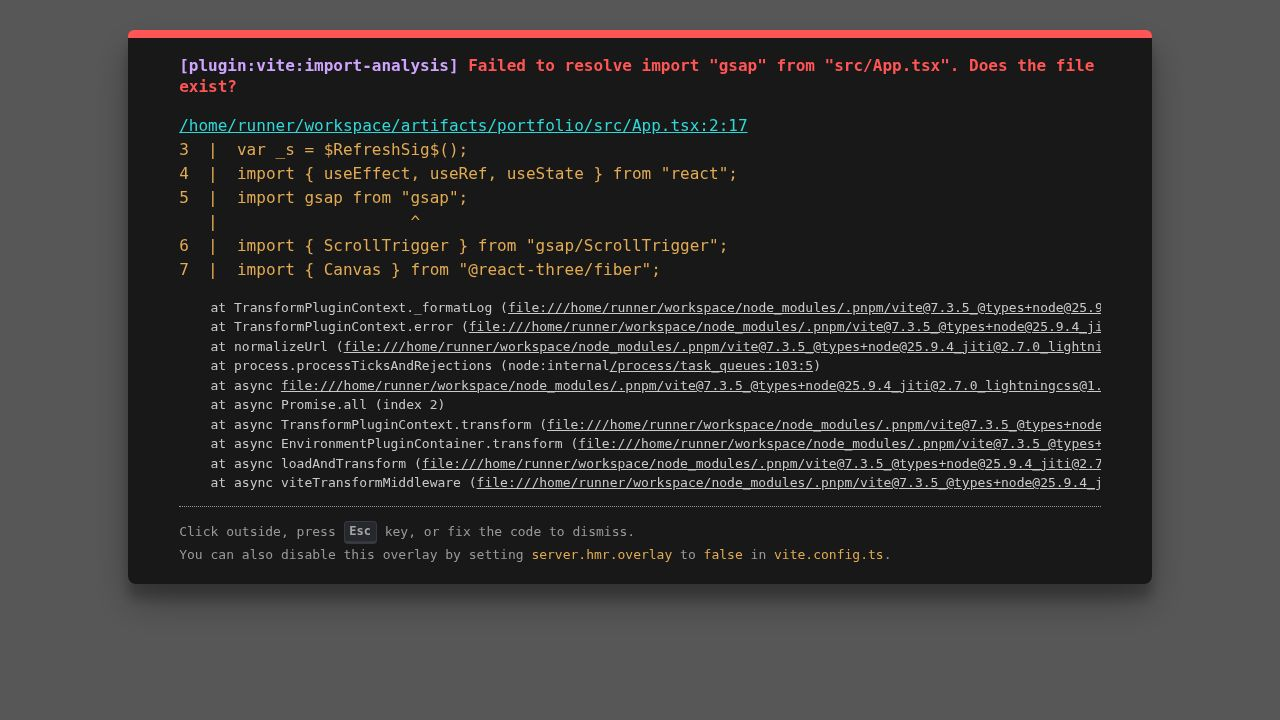
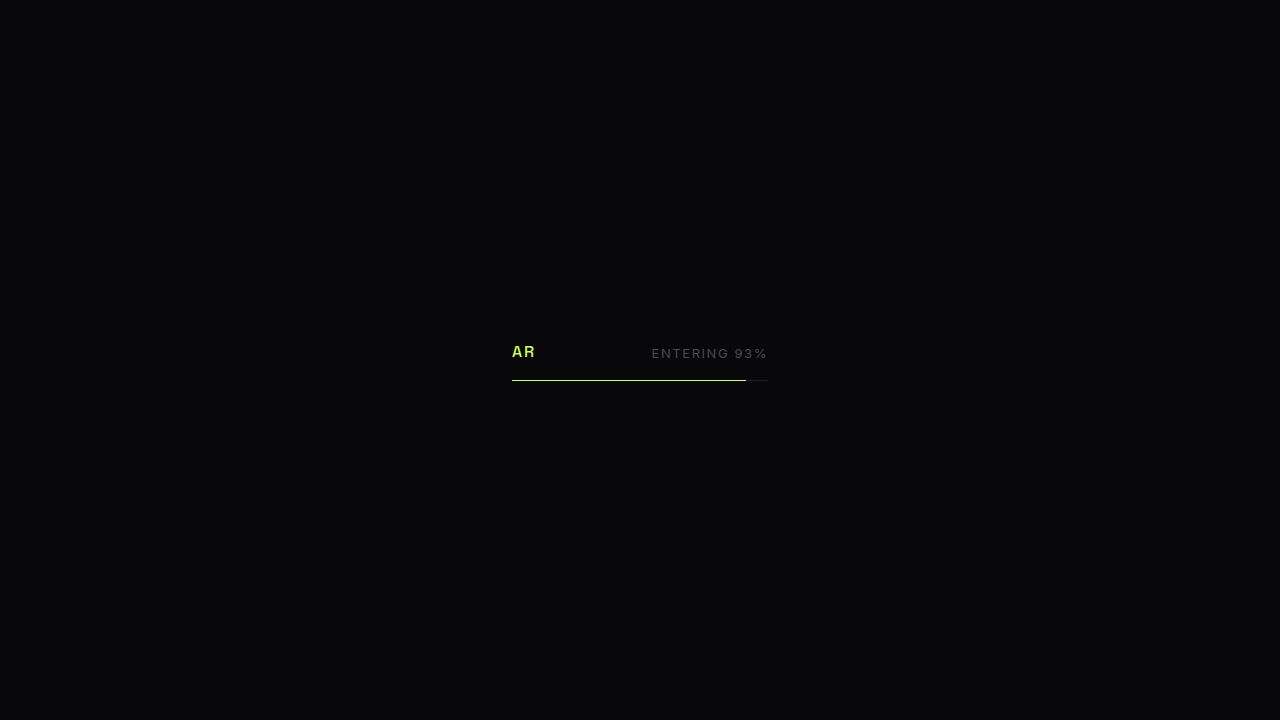
Improve hero text visibility and stats counter animation
Refactor Hero component to use GSAP for initial element states and animations, preventing text clipping issues. Update Stats component to revert to a reliable innerHTML animation pattern for the counter.

Replit-Commit-Author: Agent
Replit-Commit-Session-Id: f38b0065-e18b-4b60-a120-112a65680448
Replit-Commit-Checkpoint-Type: full_checkpoint
Replit-Commit-Event-Id: 8ea6b6fc-8256-42dd-9f79-76fe6a2680fa
Replit-Commit-Screenshot-Url: https://storage.googleapis.com/screenshot-production-us-central1/b4b35aef-3ec9-43a0-b4f4-52aafcaa6bdc/f38b0065-e18b-4b60-a120-112a65680448/22xVc4q
Replit-Helium-Checkpoint-Created: true

diff --git a/artifacts/portfolio/src/components/Hero.tsx b/artifacts/portfolio/src/components/Hero.tsx
@@ -17,51 +17,35 @@ export default function Hero() {
   useEffect(() => {
     const isReducedMotion = window.matchMedia('(prefers-reduced-motion: reduce)').matches;
 
+    // Always ensure content is visible — set via gsap.set so they're never stuck hidden
+    const elements = [eyebrowRef.current, line1Ref.current, line2Ref.current, subtextRef.current, ctaRef.current];
+
     if (isReducedMotion) {
-      [eyebrowRef, line1Ref, line2Ref, subtextRef, ctaRef].forEach(r => {
-        if (r.current) gsap.set(r.current, { opacity: 1, y: 0 });
-      });
+      elements.forEach(el => { if (el) gsap.set(el, { opacity: 1, y: 0 }); });
       return;
     }
 
-    const tl = gsap.timeline({ delay: 0.4 });
+    // Set initial hidden state via GSAP (not inline CSS) so if JS fails, content is visible
+    gsap.set([eyebrowRef.current, subtextRef.current, ctaRef.current], { opacity: 0, y: 20 });
+    gsap.set([line1Ref.current, line2Ref.current], { opacity: 0, y: 32 });
 
-    // Eyebrow fades in first
-    tl.fromTo(eyebrowRef.current,
-      { opacity: 0, y: 16 },
-      { opacity: 1, y: 0, duration: 0.6, ease: 'power2.out' }
-    );
+    const tl = gsap.timeline({ delay: 0.3 });
 
-    // Line 1 — rolls up from below clip
-    tl.fromTo(line1Ref.current,
-      { y: '105%' },
-      { y: '0%', duration: 0.9, ease: 'power3.out' },
-      '-=0.2'
-    );
+    tl.to(eyebrowRef.current, { opacity: 1, y: 0, duration: 0.55, ease: 'power2.out' })
+      .to(line1Ref.current,   { opacity: 1, y: 0, duration: 0.75, ease: 'power3.out' }, '-=0.15')
+      .to(line2Ref.current,   { opacity: 1, y: 0, duration: 0.75, ease: 'power3.out' }, '-=0.55')
+      .to(subtextRef.current, { opacity: 1, y: 0, duration: 0.6,  ease: 'power2.out' }, '-=0.35')
+      .to(ctaRef.current,     { opacity: 1, y: 0, duration: 0.55, ease: 'power2.out' }, '-=0.3');
 
-    // Line 2 — slight stagger after line 1
-    tl.fromTo(line2Ref.current,
-      { y: '105%' },
-      { y: '0%', duration: 0.9, ease: 'power3.out' },
-      '-=0.65'
-    );
-
-    // Subtext + CTAs fade in
-    tl.fromTo([subtextRef.current, ctaRef.current],
-      { opacity: 0, y: 20 },
-      { opacity: 1, y: 0, duration: 0.7, ease: 'power2.out', stagger: 0.12 },
-      '-=0.4'
-    );
-
-    // Chevron fades out on first scroll
+    // Fade scroll indicator out on first scroll
     const scrollHide = ScrollTrigger.create({
       trigger: sectionRef.current,
       start: 'top top',
-      end: '+=120',
+      end: '+=200',
       scrub: true,
       onUpdate: (self) => {
         if (chevronRef.current) {
-          gsap.set(chevronRef.current, { opacity: 1 - self.progress * 3 });
+          chevronRef.current.style.opacity = String(Math.max(0, 1 - self.progress * 4));
         }
       }
     });
@@ -76,43 +60,34 @@ export default function Hero() {
     <section
       ref={sectionRef}
       className="relative min-h-[100dvh] flex items-center pt-24 pb-16"
-      style={{ contain: 'layout' }}
     >
-      {/* Localized scrim — lifts text off particle field on the left side only */}
+      {/* Localized left-to-right scrim — lifts text off particle field */}
       <div className="hero-text-scrim" aria-hidden="true" />
 
       <div className="container-layout w-full relative z-10">
-        <div className="max-w-[640px]">
+        <div className="max-w-[620px]">
           {/* Eyebrow */}
-          <div ref={eyebrowRef} className="eyebrow mb-8" style={{ opacity: 0 }}>
+          <div ref={eyebrowRef} className="eyebrow mb-8">
             {data.hero.eyebrow}
           </div>
 
-          {/* Headline — each line wrapped in overflow:hidden clip for roll-up */}
+          {/* Headline */}
           <h1 className="text-hero font-display font-medium mb-8">
-            <span className="text-reveal-wrap">
-              <span ref={line1Ref} className="text-reveal-line text-[#f5f5f2]">
-                {data.hero.headlineLine1}
-              </span>
+            <span ref={line1Ref} className="block text-[#f5f5f2]">
+              {data.hero.headlineLine1}
             </span>
-            <span className="text-reveal-wrap">
-              <span ref={line2Ref} className="text-reveal-line text-[#8c8c94]">
-                {data.hero.headlineLine2}
-              </span>
+            <span ref={line2Ref} className="block text-[#8c8c94]">
+              {data.hero.headlineLine2}
             </span>
           </h1>
 
           {/* Subtext */}
-          <p
-            ref={subtextRef}
-            className="text-body text-[#8c8c94] max-w-[480px] mb-12"
-            style={{ opacity: 0 }}
-          >
+          <p ref={subtextRef} className="text-body text-[#8c8c94] max-w-[480px] mb-12">
             {data.hero.subtext}
           </p>
 
           {/* CTAs */}
-          <div ref={ctaRef} className="flex flex-wrap items-center gap-4" style={{ opacity: 0 }}>
+          <div ref={ctaRef} className="flex flex-wrap items-center gap-4">
             <a
               href={data.hero.ctaPrimary.target}
               className="bg-[#d4ff4f] text-[#08080a] px-8 py-4 font-medium text-sm rounded-[2px] hover:bg-[#c8f03d] transition-colors inline-block"
@@ -121,7 +96,7 @@ export default function Hero() {
             </a>
             <a
               href={data.hero.ctaSecondary.target}
-              className="border border-[#2e2e36] text-[#f5f5f2] px-8 py-4 font-medium text-sm rounded-[2px] hover:border-[#4a4a52] hover:text-[#f5f5f2] transition-colors inline-block"
+              className="border border-[#2e2e36] text-[#f5f5f2] px-8 py-4 font-medium text-sm rounded-[2px] hover:border-[#4a4a52] transition-colors inline-block"
             >
               {data.hero.ctaSecondary.label}
             </a>

diff --git a/artifacts/portfolio/src/components/Stats.tsx b/artifacts/portfolio/src/components/Stats.tsx
@@ -24,18 +24,21 @@ export default function Stats() {
       if (!isReducedMotion) {
         countersRef.current.forEach((counter, i) => {
           if (!counter) return;
-          const target = parseInt(data.stats[i].value, 10);
-          gsap.fromTo({ val: 0 },
-            { val: 0 },
+          const targetValue = parseInt(data.stats[i].value, 10);
+          // Animate innerHTML directly — the proven approach
+          gsap.fromTo(counter,
+            { innerHTML: 0 },
             {
-              val: target,
+              innerHTML: targetValue,
               duration: 1.4,
               ease: 'power2.out',
               delay: i * 0.1,
-              onUpdate: function() {
-                if (counter) counter.textContent = String(Math.round((this as any).targets()[0].val));
-              },
-              scrollTrigger: { trigger: sectionRef.current, start: 'top 85%', once: true }
+              snap: { innerHTML: 1 },
+              scrollTrigger: {
+                trigger: sectionRef.current,
+                start: 'top 85%',
+                once: true
+              }
             }
           );
         });